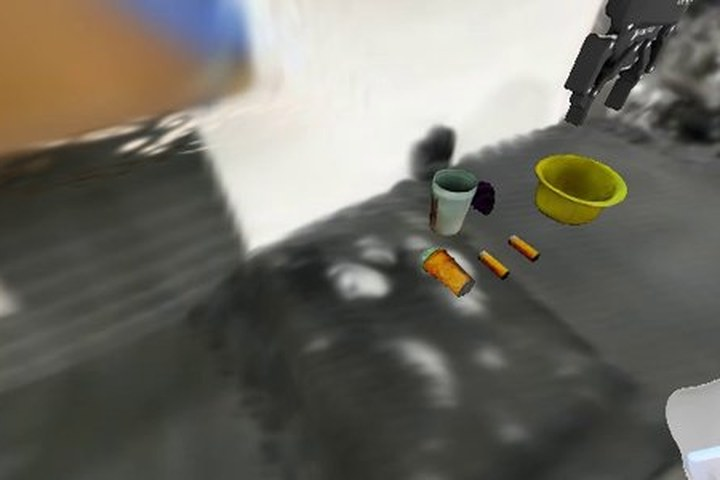
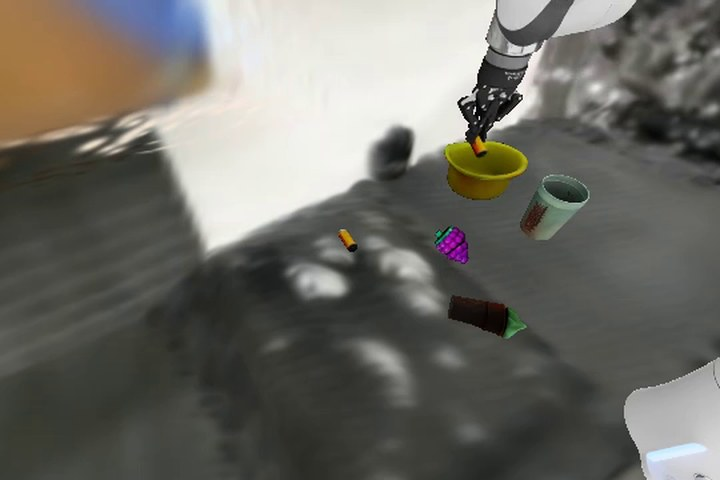
Projects index: wide card for the AnyWorld 3-up clip, grasp clip + thumbnail for PolaRiS
Claude-Session: https://claude.ai/code/session_017fuQvGu8aieiQ3LnkHQbn6

diff --git a/_sass/_custom.scss b/_sass/_custom.scss
@@ -242,6 +242,17 @@ details.pj-more {
     color: var(--global-theme-color);
   }
 }
+// wide variant: media stacked on top at its natural aspect (for side-by-side comparison clips)
+.pj-feature.wide {
+  grid-template-columns: 1fr;
+  .media video, .media img {
+    height: auto;
+    aspect-ratio: auto;
+    object-fit: contain;
+  }
+  .body { padding-top: 0.9rem; }
+  .more { margin-top: 0.2rem; }
+}
 @media (max-width: 768px) {
   .pj-feature { grid-template-columns: 1fr; }
 }

diff --git a/_projects/2_polaris_real2sim2real.md b/_projects/2_polaris_real2sim2real.md
@@ -2,7 +2,7 @@
 layout: page
 title: Real grasps in a generated scene
 description: VLA policies evaluated inside a scene the world model generated from a single frame — one file changed, everything else byte-identical — and the ranking carried back to a real robot.
-hero_video: assets/video/polaris/scan_vs_generated_same_orbit.mp4
+hero_video: assets/video/polaris/ours_pi05_ep11.mp4
 result: Policy ranking preserved (r = 0.87) across five VLA policies · real → sim → real closed on TRI's DROID station.
 img: assets/img/projects/polaris_thumb.jpg
 importance: 2

diff --git a/_pages/projects.md b/_pages/projects.md
@@ -30,7 +30,7 @@ pillars:
     </div>
     {% for project in categorized %}
       {% if forloop.first %}
-        <a class="pj-feature" href="{{ project.url | relative_url }}">
+        <a class="pj-feature{% if project.hero_layout == 'wide' %} wide{% endif %}" href="{{ project.url | relative_url }}">
           <div class="media">
             {% if project.hero_video %}
               <video src="{{ project.hero_video | relative_url }}" autoplay loop muted playsinline poster="{{ project.img | relative_url }}"></video>

diff --git a/_projects/1_anyworld.md b/_projects/1_anyworld.md
@@ -3,6 +3,7 @@ layout: page
 title: AnyWorld
 description: A persistent, renderable 3D Gaussian memory for video world models — every frame lifted feed-forward into Gaussians the generator conditions on and can export.
 hero_video: assets/video/anyworld/forward_3up_scene012.mp4
+hero_layout: wide
 result: 100% novel-view coverage at 45 m · rollouts track the recorded drive on 38/39 held-out scenes · exported 3D beats the backbone's own head.
 img: assets/img/projects/anyworld_thumb.jpg
 importance: 1
